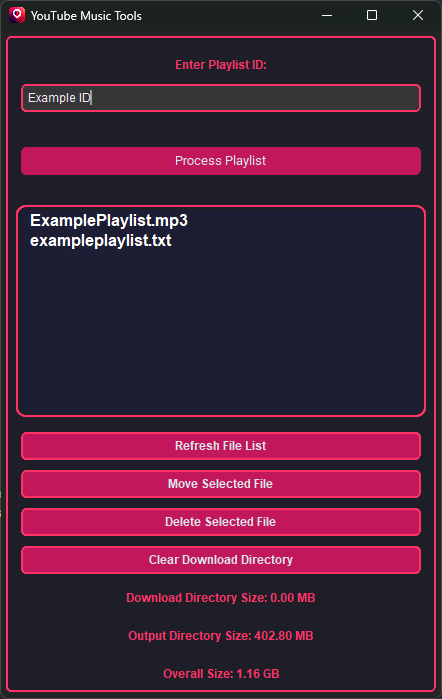
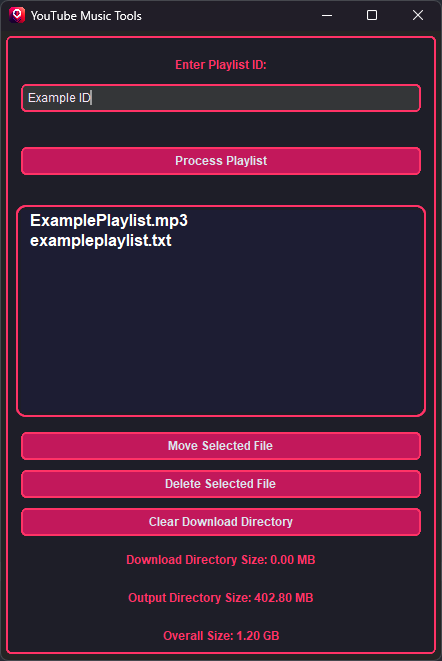
minor qol changes

Changed region(s): [[0.0294, 0.5749, 0.9706, 0.9985], [0.0294, 0.2118, 0.9706, 0.3933], [0.0, 0.0, 1.0, 0.1815]]

diff --git a/src/frontend/layout.py b/src/frontend/layout.py
@@ -1,7 +1,7 @@
 from tkinter import Listbox
 
 from customtkinter import *
-from frontend.file_management import clear_download_directory, delete_file, list_files, move_file
+from frontend.file_management import clear_download_directory, delete_file, list_files, move_file, open_directory, open_file
 from tools.logger import get_logger
 
 logger = get_logger()
@@ -61,9 +61,11 @@ def create_progress_section(app, parent):
         command=app.download_and_process, 
         fg_color="#C2185B",
         hover_color="#880E4F",
+        font=BUTTON_FONT,
+        border_width=2,
+        border_color="#FF3366"
     )
     app.download_button.pack(pady=10, fill='x')
-
 
 def update_scrollbar_visibility(app, scrollbar):
     if app.file_listbox.yview() == (0.0, 1.0):
@@ -89,6 +91,7 @@ def create_file_management_section(app, parent):
         highlightthickness=0
     )
 
+    app.file_listbox.bind("<Double-Button-1>", lambda _event: open_file(app))
     app.file_listbox.grid(row=0, column=0, sticky="nsew", padx=5, pady=5)
 
     file_scrollbar = CTkScrollbar(
@@ -107,17 +110,6 @@ def create_file_management_section(app, parent):
 
 def setup_file_buttons(app, parent):
     logger.info("Setting up file management buttons")
-    refresh_button = CTkButton(
-        parent,
-        text="Refresh File List",
-        command=lambda: list_files(app),
-        fg_color="#C2185B",
-        hover_color="#880E4F",
-        font=BUTTON_FONT,
-        border_width=2,
-        border_color="#FF3366"
-    )
-    refresh_button.pack(pady=5, padx=15, fill='x')
 
     move_button = CTkButton(
         parent,
@@ -159,7 +151,10 @@ def create_size_labels(app, parent):
     logger.info("Creating size labels")
     app.download_size_label = CTkLabel(parent, text="", text_color="#FF3366", font=LABEL_FONT)
     app.download_size_label.pack(pady=5, padx=15)
+    app.download_size_label.bind("<Button-1>", lambda event: open_directory(app.download_dir))
     app.output_size_label = CTkLabel(parent, text="", text_color="#FF3366", font=LABEL_FONT)
     app.output_size_label.pack(pady=5, padx=15)
+    app.output_size_label.bind("<Button-1>", lambda event: open_directory(app.output_dir))
     app.overall_size_label = CTkLabel(parent, text="", text_color="#FF3366", font=LABEL_FONT)
     app.overall_size_label.pack(pady=5, padx=15)
+    app.overall_size_label.bind("<Button-1>", lambda event: open_directory(app.overall_dir))

diff --git a/src/frontend/file_management.py b/src/frontend/file_management.py
@@ -1,5 +1,7 @@
 import os
+import platform
 import shutil
+import subprocess
 from tkinter import ACTIVE, END, filedialog, messagebox
 
 from frontend.config import DOWNLOAD_DIR, OUTPUT_DIR
@@ -21,6 +23,22 @@ def list_files(app):
     except FileNotFoundError:
         logger.error(f"The directory {OUTPUT_DIR} does not exist.")
         messagebox.showerror("Error", f"The directory {OUTPUT_DIR} does not exist.")
+
+def open_file(app):
+    selected_file = app.file_listbox.get(ACTIVE).strip()
+    file_path = os.path.join(OUTPUT_DIR, selected_file)
+    if os.path.isfile(file_path):
+        try:
+            logger.info(f"Opening file {file_path}")
+            if platform.system() == 'Windows':
+                os.startfile(file_path)
+            elif platform.system() == 'Darwin':
+                subprocess.run(['open', file_path])
+            else: 
+                subprocess.run(['xdg-open', file_path])
+        except Exception as e:
+            logger.error(f"Failed to open file {file_path}: {str(e)}")
+            messagebox.showerror("Error", f"Failed to open file: {str(e)}")
 
 def move_file(app):
     selected_file = app.file_listbox.get(ACTIVE).strip()
@@ -51,6 +69,17 @@ def delete_file(app):
         except Exception as e:
             logger.error(f"Failed to delete file {selected_file}: {str(e)}")
             messagebox.showerror("Error", f"Failed to delete file: {str(e)}")
+
+def open_directory(directory):
+    try:
+        if platform.system() == 'Windows':
+            os.startfile(directory)
+        elif platform.system() == 'Darwin':
+            subprocess.call(['open', directory])
+        else:
+            subprocess.call(['xdg-open', directory])
+    except Exception as e:
+        logger.error(f"Failed to open directory {directory}: {e}")
 
 def clear_download_directory(app):
     logger.info("Clearing download directory.")

diff --git a/src/frontend/gui.py b/src/frontend/gui.py
@@ -30,6 +30,10 @@ class YouTubeDownloaderGUI:
 
         self.cancel_event = threading.Event()
 
+        self.download_dir = os.path.abspath(DOWNLOAD_DIR)
+        self.output_dir = os.path.abspath(OUTPUT_DIR)
+        self.overall_dir = os.path.abspath(ROOT_DIR)
+
         create_main_layout(self)
 
         reset_progress(self)
